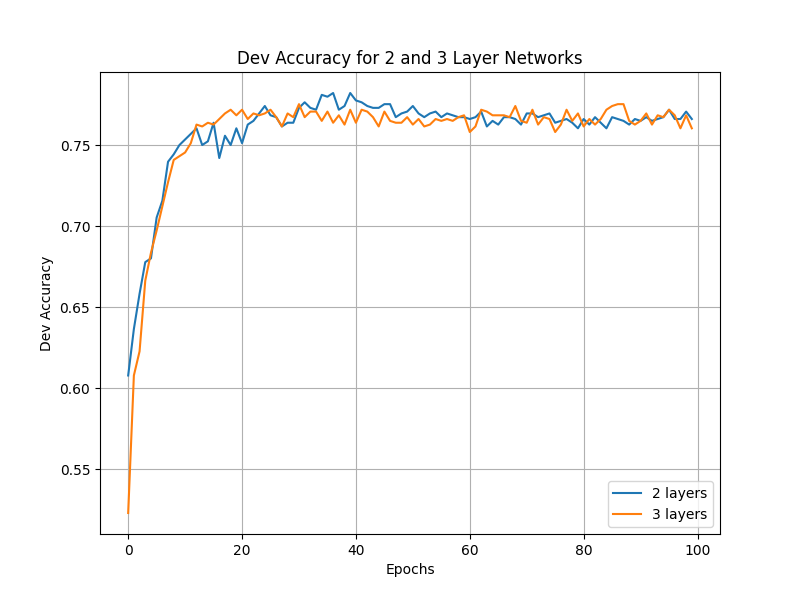
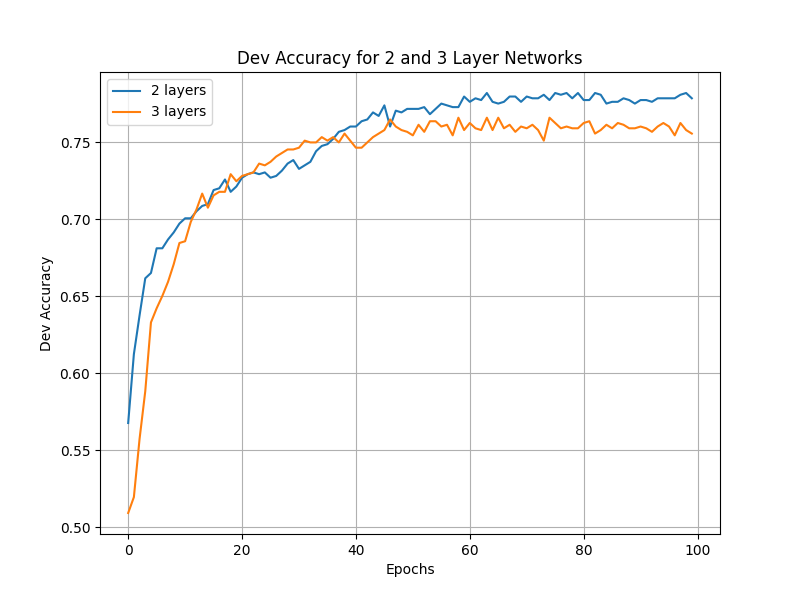
checking different parameters

diff --git a/main.py b/main.py
@@ -64,7 +64,13 @@ def eval_epoch(data_loader, model, loss_fn, optimizer):
 # Experiment function to run training and evaluation for multiple epochs
 def experiment(model, train_loader, test_loader):
     loss_fn = nn.NLLLoss()
+
+    #adam with 0.00005 learning rate works the best for random DAN
     optimizer = torch.optim.Adam(model.parameters(), lr=0.0001)
+    #sgd works best on DAN
+    #optimizer = torch.optim.SGD(model.parameters(), lr = 0.001)
+    #optimizer = torch.optim.NAdam(model.parameters(), lr = 0.00008)
+    #optimizer = torch.optim.AdamW(model.parameters(), lr = 0.0001)
 
     all_train_accuracy = []
     all_test_accuracy = []
@@ -99,11 +105,9 @@ def main():
     # Load dataset
     start_time = time.time()
 
-    #train_data = SentimentDatasetBOW("data/train.txt")
-    #dev_data = SentimentDatasetBOW("data/dev.txt", vectorizer=train_data.vectorizer, train=False)
-    #train_loader = DataLoader(train_data, batch_size=16, shuffle=True)
-    #test_loader = DataLoader(dev_data, batch_size=16, shuffle=False)
-
+    #check whether a dataset is provided as an argument
+    if args.datapath is None:
+        args.datapath = "glove.6B.300d-relativized.txt"
 
     if args.model == "BOW":
         train_data = SentimentDatasetBOW("data/train.txt")
@@ -184,12 +188,12 @@ def main():
 
     elif args.model == "DAN":
         print('\n2 layers:')
-        nn2_train_accuracy, nn2_test_accuracy = experiment(NN2DAN(input_size=300, hidden_size=100), train_loader,
+        nn2_train_accuracy, nn2_test_accuracy = experiment(NN2DAN(input_size=300, hidden_size=200), train_loader,
                                                            test_loader)
 
         # Train and evaluate NN3
         print('\n3 layers:')
-        nn3_train_accuracy, nn3_test_accuracy = experiment(NN3DAN(input_size=300, hidden_size=100), train_loader,
+        nn3_train_accuracy, nn3_test_accuracy = experiment(NN3DAN(input_size=300, hidden_size=200), train_loader,
                                                            test_loader)
 
         # Plot the training accuracy

diff --git a/DANmodels.py b/DANmodels.py
@@ -45,13 +45,15 @@ class NN2DAN(nn.Module):
         self.fc1 = nn.Linear(input_size, hidden_size)
         self.fc2 = nn.Linear(hidden_size, 2)
         self.log_softmax = nn.LogSoftmax(dim=1)
-
+        #self.dropout = nn.Dropout(0.6)
     def forward(self, x):
         #learn hidden features
         x = F.relu(self.fc1(x))
         #create scores for both classes
+        #x = self.dropout(x)
         x = self.fc2(x)
-        return self.log_softmax(x)
+        x = self.log_softmax(x)
+        return x
 
 
 # Three-layer DAN model
@@ -63,14 +65,18 @@ class NN3DAN(nn.Module):
         self.fc3 = nn.Linear(hidden_size, 2)
         self.log_softmax = nn.LogSoftmax(dim=1)
 
+        #self.dropout = nn.Dropout(0.6)
+
     def forward(self, x):
         #first hidden layer
         x = F.relu(self.fc1(x))
         #second hidden layer
         x = F.relu(self.fc2(x))
+        #x = self.dropout(x)
         #find scores for both classes
         x = self.fc3(x)
-        return self.log_softmax(x)
+        x = self.log_softmax(x)
+        return x
 
 #Randomly initialized embeddings
 class SentimentDatasetDANRandom(Dataset):
@@ -198,7 +204,7 @@ class NN2DAN_BPE(nn.Module):
             embed_size,
             padding_idx=0)
 
-        self.dropout = nn.Dropout(0.6)
+        self.dropout = nn.Dropout(0.55)
         self.fc1 = nn.Linear(embed_size, hidden_size)
         self.fc2 = nn.Linear(hidden_size, 2)
 
